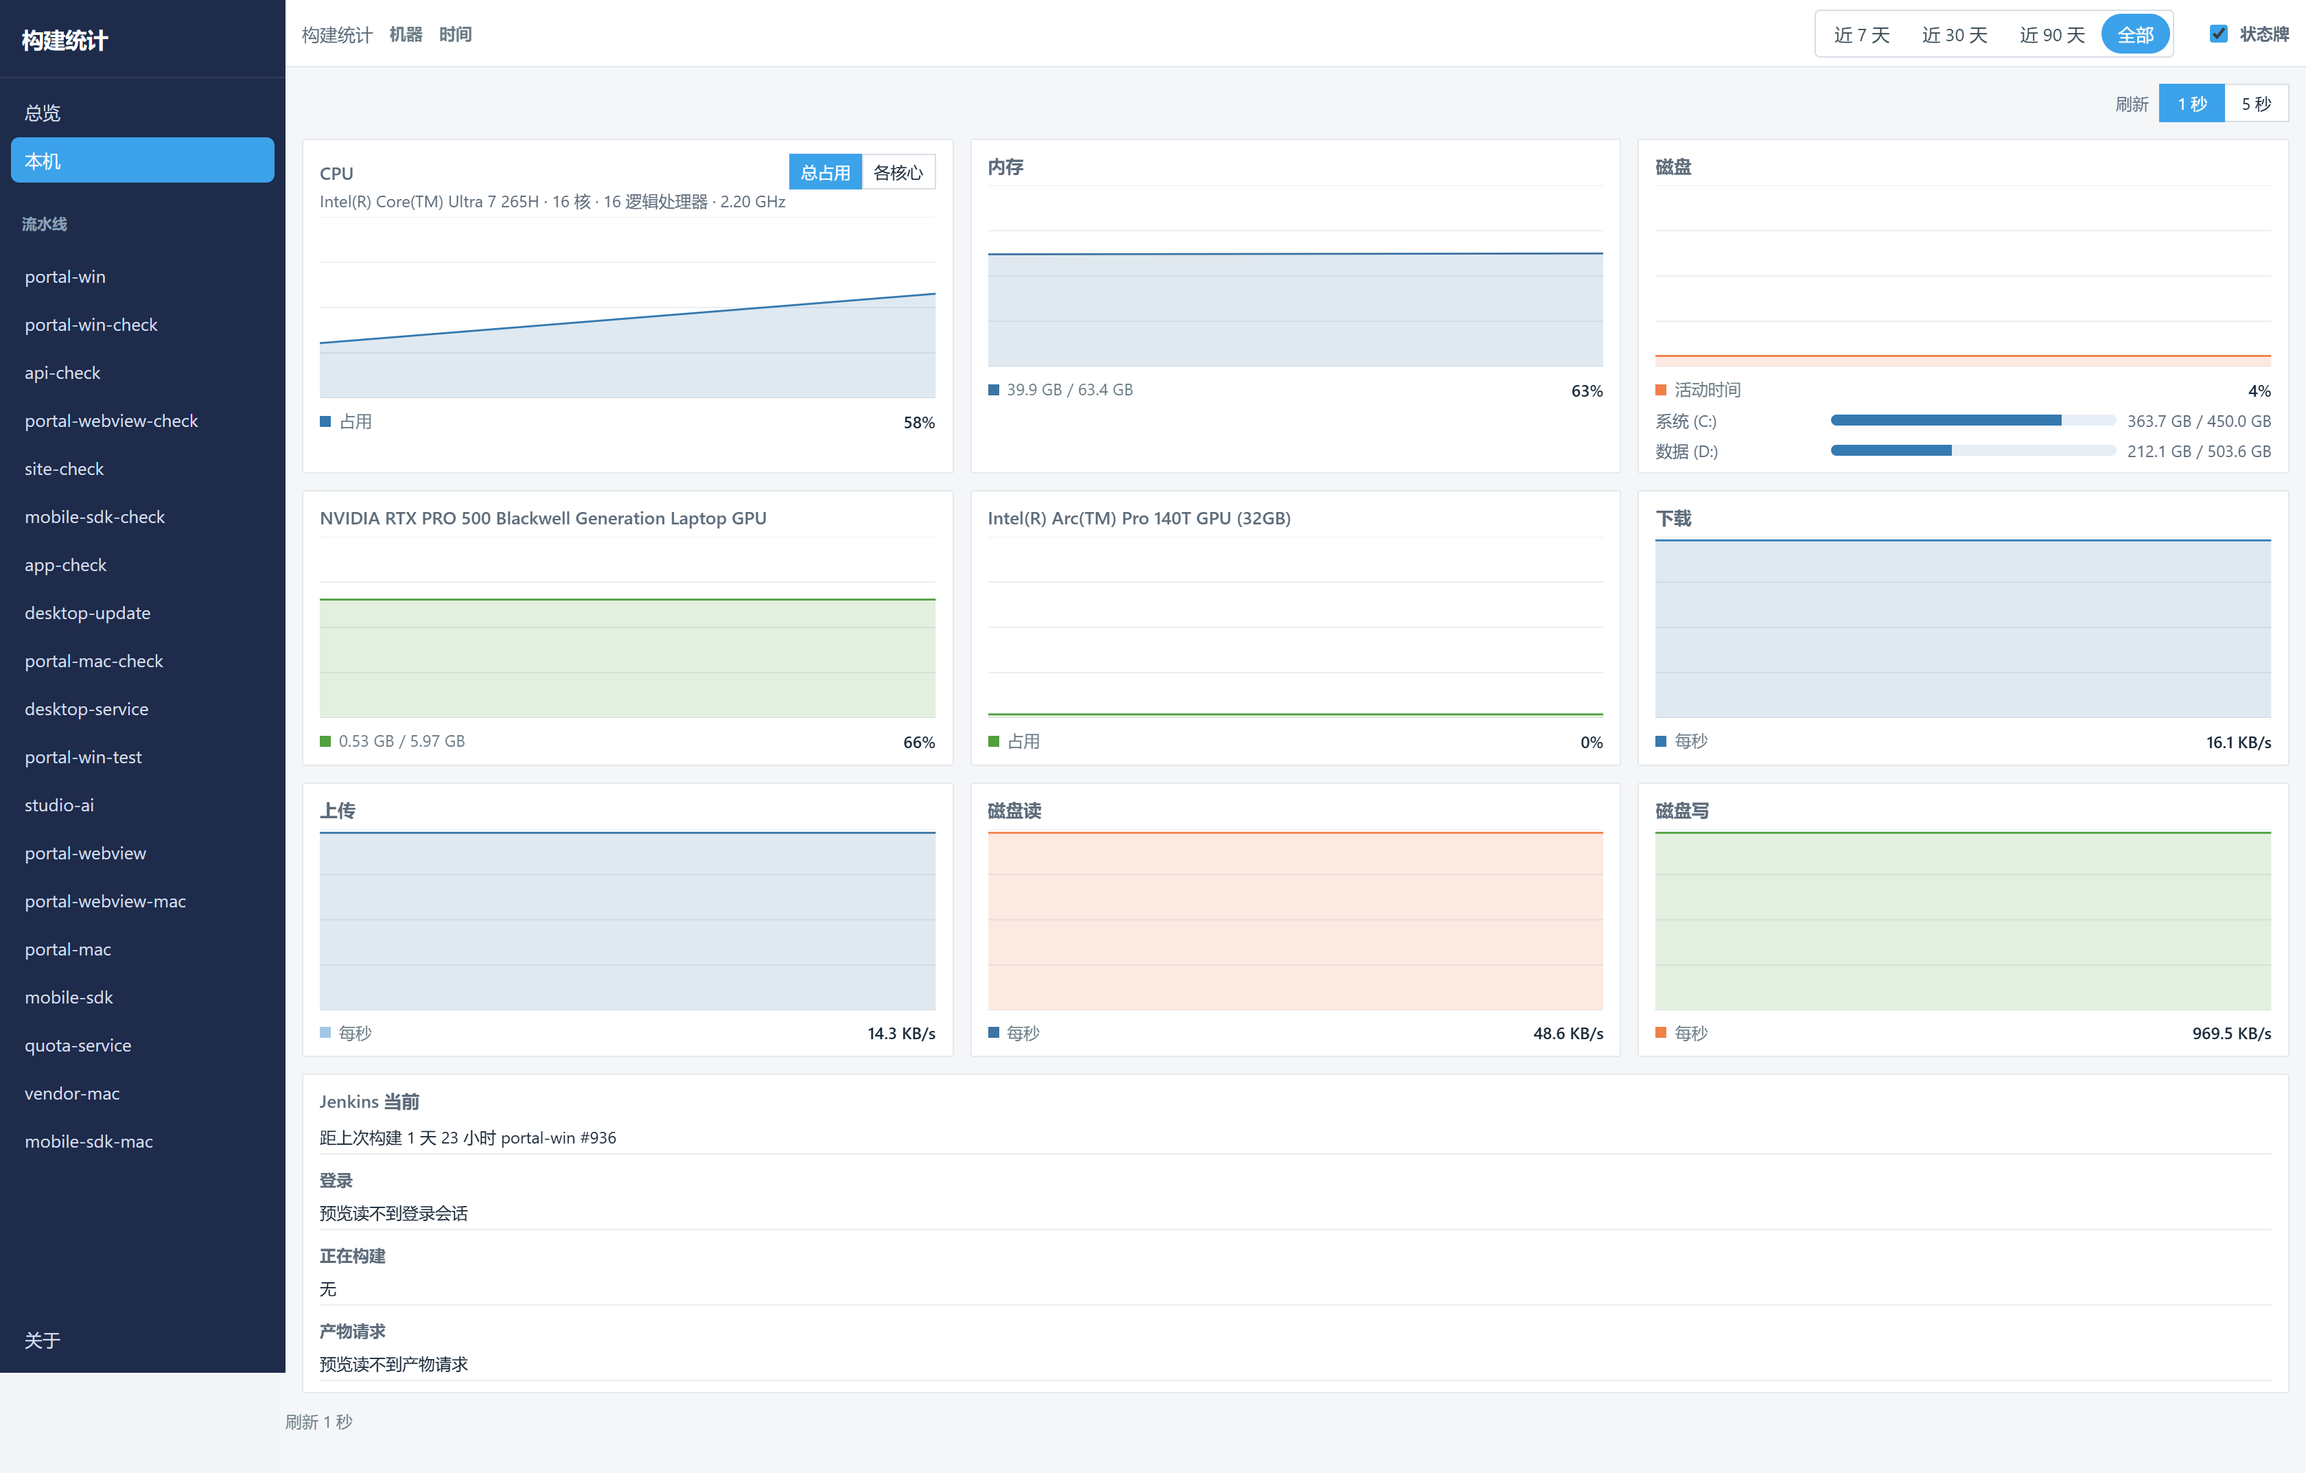
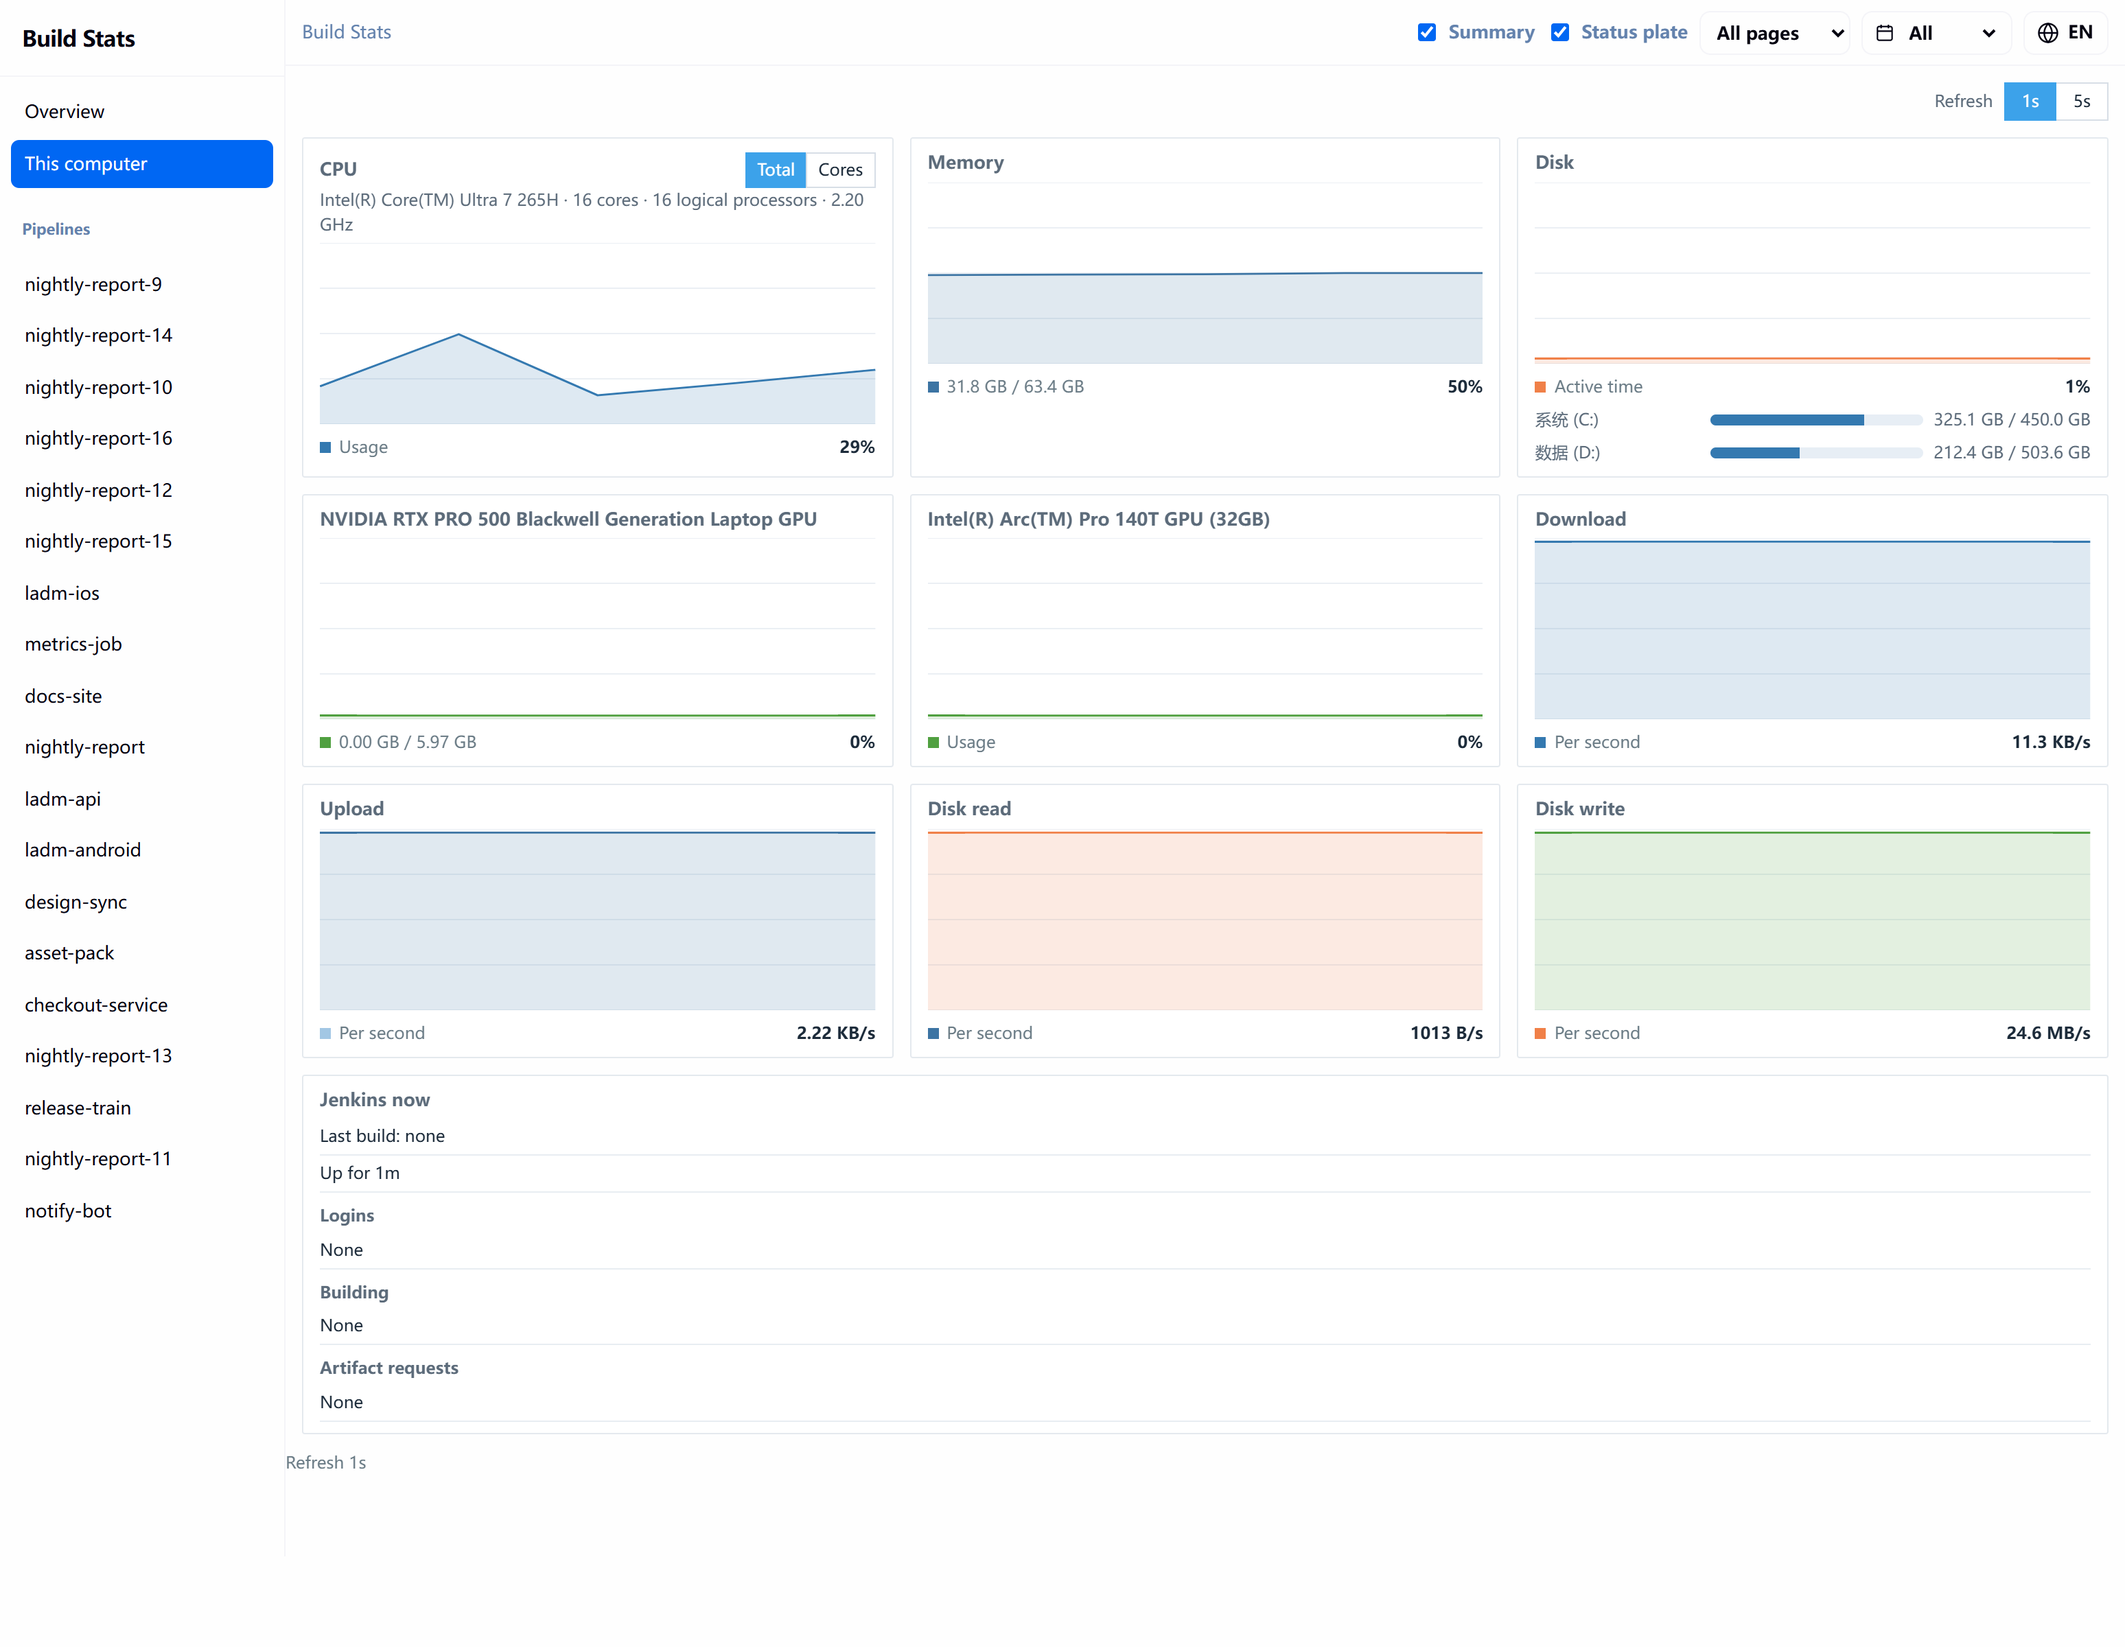
Refresh anonymized English and Chinese screenshots, and link each status plate to its build.

diff --git a/docs/index.html b/docs/index.html
@@ -164,14 +164,12 @@
     .shot img {
       display: block;
       width: 100%;
-      height: min(34rem, 72vw);
-      object-fit: cover;
-      object-position: top center;
+      height: auto;
     }
 
     #overview img {
       height: auto;
-      aspect-ratio: 3360 / 2400;
+      aspect-ratio: auto;
     }
 
     .shot figcaption,
@@ -276,7 +274,7 @@
       .hero figure { justify-self: start; }
       .hero img { width: min(16.5rem, 100%); }
       .plates { grid-template-columns: repeat(2, minmax(0, 1fr)); }
-      .shot img { height: 16rem; }
+      .shot img { height: auto; }
       #overview img { height: auto; }
     }
 
@@ -322,13 +320,13 @@
           <p class="lede en">The builds you can see, on one page: counts, duration, queue time, success rate, and pipeline stage time.</p>
         </div>
         <figure>
-          <img src="images/home.png" alt="首页右下角的状态牌" data-alt-en="The status card on the Jenkins home page" width="640" height="760">
+          <img src="images/home.png" data-src-en="images/home.png" data-src-zh="images/home-zh.png" alt="首页右下角的状态牌" data-alt-en="The status card on the Jenkins home page" width="640" height="760">
         </figure>
       </div>
 
       <figure class="shot" id="overview">
         <a href="images/overview.png">
-          <img src="images/overview.png" alt="构建统计总览：热力图、趋势和右侧状态牌" data-alt-en="Build Stats overview: heatmap, charts, and the status plate">
+          <img src="images/overview.png" data-src-en="images/overview.png" data-src-zh="images/overview-zh.png" alt="构建统计总览：热力图、趋势和右侧状态牌" data-alt-en="Build Stats overview: heatmap, charts, and the status plate">
         </a>
         <figcaption>
           <span class="zh">总览。点开看完整一页。</span>
@@ -373,7 +371,7 @@
           </div>
           <figure class="shot">
             <a href="images/pipeline.png">
-              <img src="images/pipeline.png" alt="一条流水线的耗时、次数和成功率" data-alt-en="Duration, count, and success rate for one pipeline">
+              <img src="images/pipeline.png" data-src-en="images/pipeline.png" data-src-zh="images/pipeline-zh.png" alt="一条流水线的耗时、次数和成功率" data-alt-en="Duration, count, and success rate for one pipeline">
             </a>
             <figcaption>
               <span class="zh">点开看完整一页。</span>
@@ -387,7 +385,7 @@
         <div class="pair flip">
           <figure class="shot">
             <a href="images/host.png">
-              <img src="images/host.png" alt="本机的 CPU、内存、磁盘、显卡和网络" data-alt-en="This computer: CPU, memory, disk, GPU, and network">
+              <img src="images/host.png" data-src-en="images/host.png" data-src-zh="images/host-zh.png" alt="本机的 CPU、内存、磁盘、显卡和网络" data-alt-en="This computer: CPU, memory, disk, GPU, and network">
             </a>
             <figcaption>
               <span class="zh">点开看完整一页。</span>

diff --git a/src/main/webapp/js/home-card.js b/src/main/webapp/js/home-card.js
@@ -70,6 +70,28 @@
     return "en";
   }
 
+  function localize() {
+    var zh = lang() === "zh";
+    var states = {
+      Running: "构建中",
+      Success: "成功",
+      Failure: "失败",
+      Unstable: "不稳定",
+      Aborted: "中止",
+      "Not built": "未构建"
+    };
+    root.querySelectorAll("img[data-src-en]").forEach(function (img) {
+      img.src = zh ? img.getAttribute("data-src-zh") : img.getAttribute("data-src-en");
+    });
+    root.querySelectorAll(".bv-state").forEach(function (el) {
+      if (!el.getAttribute("data-en")) {
+        el.setAttribute("data-en", el.textContent);
+      }
+      var english = el.getAttribute("data-en");
+      el.textContent = zh && states[english] ? states[english] : english;
+    });
+  }
+
   function words() {
     return copy[lang()];
   }
@@ -201,6 +223,7 @@
 
   var state = read();
   label();
+  localize();
   apply(state);
   if (state.mode === "closed" && !seen(ACK)) {
     showGuide("closed");
@@ -243,7 +266,7 @@
     if (!root.classList.contains("is-peek")) {
       return;
     }
-    if (event.target.closest("button")) {
+    if (event.target.closest("button") || event.target.closest("a")) {
       return;
     }
     event.preventDefault();
@@ -274,7 +297,7 @@
     if (event.button != null && event.button !== 0) {
       return;
     }
-    if (event.target.closest("button") || root.classList.contains("is-peek") || root.classList.contains("is-closed")) {
+    if (event.target.closest("button") || event.target.closest("a") || root.classList.contains("is-peek") || root.classList.contains("is-closed")) {
       return;
     }
     var rect = root.getBoundingClientRect();

diff --git a/src/main/webapp/css/build-stats.css b/src/main/webapp/css/build-stats.css
@@ -573,6 +573,7 @@ html.bv-summary-on .bv-lead {
   justify-content: center;
 }
 
+.bv-sign-link,
 .bv-home-picture,
 .bv-home-build {
   display: block;
@@ -580,6 +581,7 @@ html.bv-summary-on .bv-lead {
   text-decoration: none;
 }
 
+.bv-sign-link strong,
 .bv-home-build strong {
   text-decoration: underline;
   text-underline-offset: 2px;

diff --git a/src/main/java/io/jenkins/plugins/buildvalue/logic/PageHtml.java b/src/main/java/io/jenkins/plugins/buildvalue/logic/PageHtml.java
@@ -75,7 +75,7 @@ public final class PageHtml {
 
         html.append("<div class=\"bv-panel bv-panel-all\"><div class=\"bv-page-head\">");
         heat(html, dashboard.heatJson);
-        sign(html, dashboard.signImage, dashboard.signAlt, dashboard.signCaption, dashboard.signLive);
+        sign(html, dashboard.signImage, dashboard.signAlt, dashboard.signCaption, dashboard.signLive, dashboard.signUrl);
         html.append("</div><div class=\"bv-board\">");
         Dashboard.Kpi kpi = dashboard.kpi;
         chart(html, "累计机器小时", dashboard.hoursChart);
@@ -163,7 +163,7 @@ public final class PageHtml {
         card(html, "成功率", panel.success, Texts.both("Avg " + Texts.english(panel.average), "平均 " + averageZh), "");
         card(html, "失败次数", panel.failures, "", "");
         html.append("</section>");
-        sign(html, panel.signImage, panel.signAlt, panel.signCaption, panel.signLive);
+        sign(html, panel.signImage, panel.signAlt, panel.signCaption, panel.signLive, panel.signUrl);
         html.append("</div></section>");
         html.append("<div class=\"bv-board\">");
         chart(html, "耗时趋势", panel.durationChart);
@@ -291,7 +291,7 @@ public final class PageHtml {
         html.append("<p class=\"bv-entry-text\"></p><div class=\"bv-entry-actions\">");
         html.append("<button type=\"button\" class=\"bv-entry-show\" hidden></button>");
         html.append("<button type=\"button\" class=\"bv-entry-ok\"></button></div></div>");
-        html.append("<script src=\"").append(pluginAsset("js/home-card.js")).append("?v=5\"></script>");
+        html.append("<script src=\"").append(pluginAsset("js/home-card.js")).append("?v=6\"></script>");
         return html.toString();
     }
 
@@ -312,7 +312,7 @@ public final class PageHtml {
         return image.substring(0, dot) + "-en" + image.substring(dot);
     }
 
-    private static void sign(StringBuilder html, String image, String alt, String caption, boolean live) {
+    private static void sign(StringBuilder html, String image, String alt, String caption, boolean live, String url) {
         if (image == null || image.isEmpty()) {
             return;
         }
@@ -324,6 +324,9 @@ public final class PageHtml {
         String subject = split < 0 ? caption : caption.substring(0, split);
         String state = split < 0 ? "" : caption.substring(split + 1);
         plateImg(html, image, alt);
+        if (url != null && !url.isBlank()) {
+            html.append("<a class=\"bv-sign-link\" href=\"").append(Texts.escape(url)).append("\">");
+        }
         html.append("<figcaption><strong>")
                 .append(Texts.escape(subject)).append("</strong>");
         if (!state.isEmpty()) {
@@ -331,7 +334,11 @@ public final class PageHtml {
                     .append(stateKey(state)).append("\" data-zh=\"").append(Texts.escape(stateZh(state))).append("\">")
                     .append(Texts.escape(state)).append("</span>");
         }
-        html.append("</figcaption></figure>");
+        html.append("</figcaption>");
+        if (url != null && !url.isBlank()) {
+            html.append("</a>");
+        }
+        html.append("</figure>");
     }
 
     private static String stateClass(String state) {

diff --git a/src/main/java/io/jenkins/plugins/buildvalue/logic/Dashboard.java b/src/main/java/io/jenkins/plugins/buildvalue/logic/Dashboard.java
@@ -33,6 +33,7 @@ public final class Dashboard {
     public final String signAlt;
     public final String signCaption;
     public final boolean signLive;
+    public final String signUrl;
     public final String homeImage;
     public final String homeAlt;
     public final String homeCaption;
@@ -70,6 +71,7 @@ public final class Dashboard {
             String signAlt,
             String signCaption,
             boolean signLive,
+            String signUrl,
             String homeImage,
             String homeAlt,
             String homeCaption,
@@ -105,6 +107,7 @@ public final class Dashboard {
         this.signAlt = signAlt;
         this.signCaption = signCaption;
         this.signLive = signLive;
+        this.signUrl = signUrl == null ? "" : signUrl;
         this.homeImage = homeImage;
         this.homeAlt = homeAlt;
         this.homeCaption = homeCaption;
@@ -164,12 +167,13 @@ public final class Dashboard {
         public final String signAlt;
         public final String signCaption;
         public final boolean signLive;
+        public final String signUrl;
 
         JobPanel(String title, String mark, String jobName, String jobUrl, String builds, String average,
                 String success, String failures, String machineTime, String compare, String durationChart, String stageBars,
                 String stagePie, String failPie, boolean hasStages, List<BuildRow> recent, String hourChart,
                 String dailyCountsChart, String rateChart, String stageDots, String scriptChart, List<PersonRow> people,
-                String signImage, String signAlt, String signCaption, boolean signLive) {
+                String signImage, String signAlt, String signCaption, boolean signLive, String signUrl) {
             this.title = title;
             this.mark = mark;
             this.jobName = jobName;
@@ -196,6 +200,7 @@ public final class Dashboard {
             this.signAlt = signAlt;
             this.signCaption = signCaption;
             this.signLive = signLive;
+            this.signUrl = signUrl == null ? "" : signUrl;
         }
     }
 

diff --git a/src/main/java/io/jenkins/plugins/buildvalue/logic/BuildValueComputer.java b/src/main/java/io/jenkins/plugins/buildvalue/logic/BuildValueComputer.java
@@ -105,6 +105,7 @@ public final class BuildValueComputer {
                 sign.alt,
                 sign.caption,
                 sign.live,
+                sign.url,
                 home.image,
                 home.alt,
                 home.caption,
@@ -118,11 +119,14 @@ public final class BuildValueComputer {
         final String caption;
         final boolean live;
 
+        final String url;
+
         Sign(StatusSign status) {
             this.image = status.image;
             this.alt = status.alt;
             this.caption = status.caption;
             this.live = status.live;
+            this.url = status.buildUrl;
         }
     }
 
@@ -143,7 +147,7 @@ public final class BuildValueComputer {
             return new Sign(StatusSign.none());
         }
         String result = sample.running() ? "RUNNING" : sample.result;
-        return new Sign(StatusSign.of(result, sample.jobFullName, sample.number));
+        return new Sign(StatusSign.of(result, sample.jobFullName, sample.number, sample.buildUrl));
     }
 
     private static String heatJson(List<BuildSample> samples, ZoneId zone) {
@@ -475,7 +479,8 @@ public final class BuildValueComputer {
                 sign.image,
                 sign.alt,
                 sign.caption,
-                sign.live);
+                sign.live,
+                sign.url);
     }
 
     private static String rateSeries(List<BuildSample> finished, ZoneId zone) {

diff --git a/README.zh-CN.md b/README.zh-CN.md
@@ -26,7 +26,7 @@
 
 <p align="center">
   <a href="https://build-stats-plugin.xmuli.tech/#overview">
-    <img src="docs/images/overview.png" alt="构建统计总览：热力图、趋势和右侧状态牌" width="860">
+    <img src="docs/images/overview-zh.png" alt="构建统计总览：热力图、趋势和右侧状态牌" width="860">
   </a>
 </p>
 
@@ -36,7 +36,7 @@
 
 <p align="center">
   <a href="https://build-stats-plugin.xmuli.tech/#pipeline">
-    <img src="docs/images/pipeline.png" alt="一条流水线的耗时、次数和成功率" width="860">
+    <img src="docs/images/pipeline-zh.png" alt="一条流水线的耗时、次数和成功率" width="860">
   </a>
 </p>
 
@@ -46,7 +46,7 @@
 
 <p align="center">
   <a href="https://build-stats-plugin.xmuli.tech/#machine">
-    <img src="docs/images/host.png" alt="本机的 CPU、内存、磁盘、显卡和网络" width="860">
+    <img src="docs/images/host-zh.png" alt="本机的 CPU、内存、磁盘、显卡和网络" width="860">
   </a>
 </p>
 
@@ -76,7 +76,7 @@
 </p>
 
 <p align="center">
-  <img src="docs/images/home.png" alt="首页右下角的状态牌" width="280">
+  <img src="docs/images/home-zh.png" alt="首页右下角的状态牌" width="280">
 </p>
 
 页面地址是 `/build-stats`。没有选择时使用英文。
